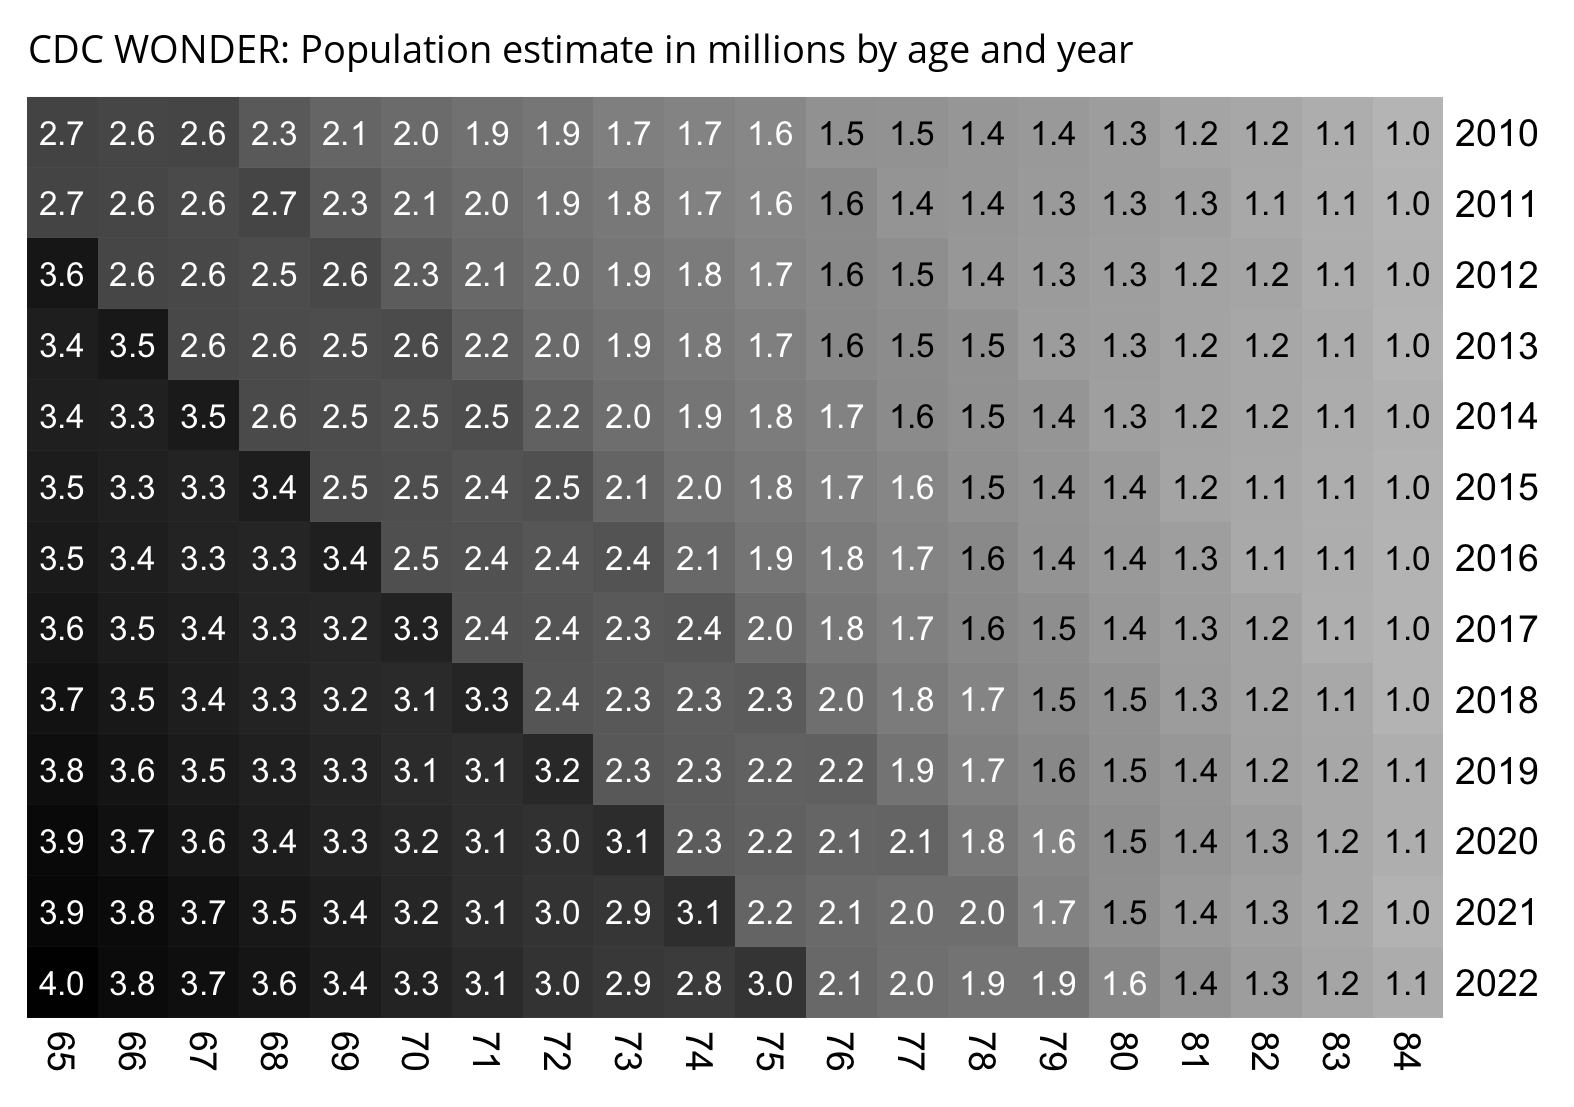
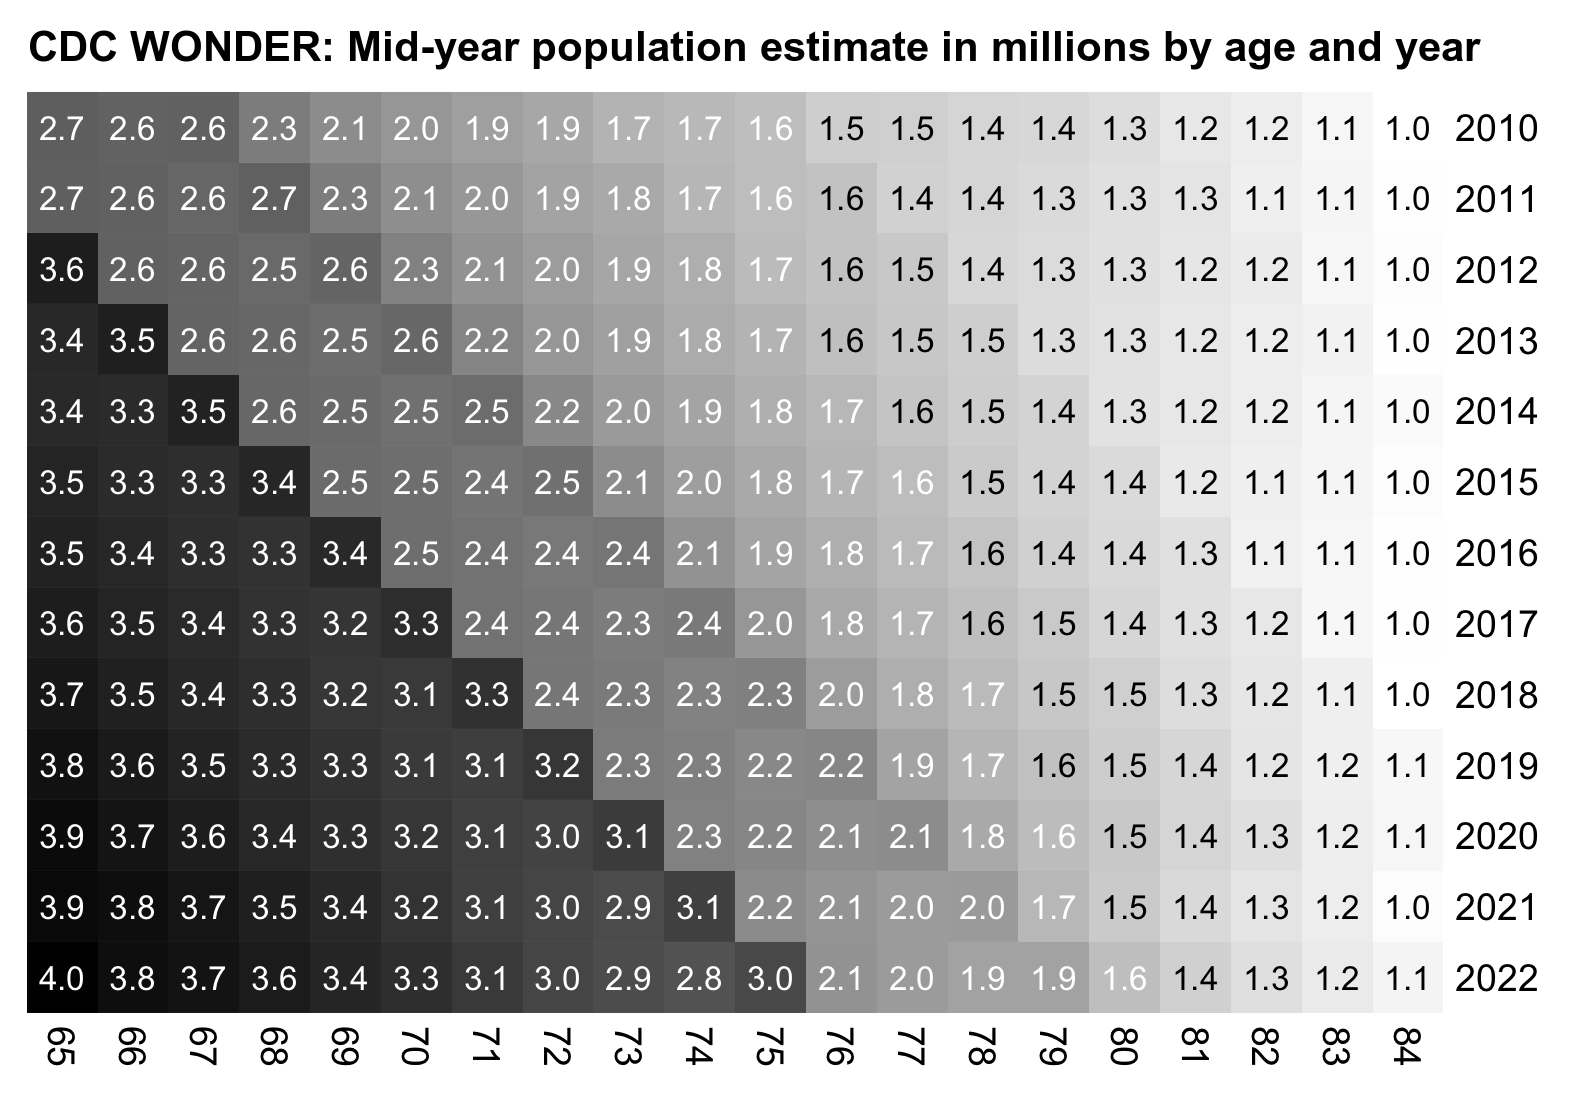
a

diff --git a/statistic.html b/statistic.html
@@ -1344,43 +1344,16 @@ system(paste0(&quot;magick 1.png -resize 25% 1.png;mar=30;w=`identify -format %w
  2021 169929 16206075 1048.6 1000.3   48.2   9.5
  2022 176784 17520545 1009.0  978.5   30.5   6.0
  2023 183053 17520545 1044.8  956.6   88.2  17.4</pre>
-<p>In the plot below I used <code>tempdisagg::td</code> to interpolate yearly population sizes to monthly so that averages within years were preserved. I got the population size for 2023 by doing a linear regression for the trend in population size in 2015-2022. The population size falls far below the trend in 2021, but the next year it gets corrected again so that it roughly falls back on the prepandemic trend:</p>
-<div class="width6">
-<img src="i/debunk-dowd-5.png">
-</div>
-<p>The plot above also shows that the number of cancer deaths in 2021 roughly fell on the past trend, but the reason why the CMR in 2021 was far above the previous trend was mainly because the population size was below the trend in 2021.</p>
-<p>At CDC WONDER ages 75-84 have about 97,000 deaths with underlying cause of death COVID in 2020, about 99,000 in 2021, and about 51,000 in 2022. But the population decreases by about 245,000 from 2020 to 2021, even though in earlier years it increased by about 500,000 per year. So the population size in 2021 is about 750,000 people below the trend, which is much higher than the number of COVID deaths in 2020 and 2021 combined. So in the scenario where there would be some kind of a glitch in the population estimates used by WONDER and the population size did not actually decrease that much below the trend 2022, then the excess CMR in 2022 might actually be lower.</p>
-<p>At first I thought the decrease in population size in 2021 may have been because of changes to the methodology for estimating population size that were introduced because of COVID. But then I noticed that the United States had a dip in births in 1945, and people born in 1945 were first included in the 75-84 age group in 2020, but there was a peak in births in 1947, and 2022 was the first year when people born in 1947 started to get included in the 75-84 age group. There were almost a million more births in 1947 than 1945. So in this plot the temporary dip in births in 1945 matches the temporary dip in population size in 2021 in the plot above: [<a href="https://www.calculatedriskblog.com/2010/04/us-births-per-year.html">https://www.calculatedriskblog.com/2010/04/us-births-per-year.html</a>]</p>
+<p>There was an unusually low number of deaths in 1944 and 1945, but the earliest wave of baby boomers was born around mid-1946 so there was a huge increase in the number of births in 1946 and 1947: [<a href="https://www.calculatedriskblog.com/2010/04/us-births-per-year.html">https://www.calculatedriskblog.com/2010/04/us-births-per-year.html</a>]</p>
 <div class="width6">
 <img src="i/debunk-dowd-6.jpg">
 </div>
-<p>This also shows how the wave of people born in 1947 reaches the 75-84 age group in 2022:</p>
+<p>The next plot also shows how 2022 was the first year when the mid-year population estimates included a large number of people born after mid-1946. I used the population sizes returned by CDC WONDER, where the population size of ages 75-84 fell between 2020 and 2021 due to the switch to the 2020-based population estimates, even though it's not easy to see from this plot:</p>
 <div class="width6">
 <img src="i/debunk-dowd-7.png">
 </div>
-<p>However I'm not sure if the dip in births in 1945 is enough to explain the decrease in population size from 2020 to 2021.</p>
-<p>CDC WONDER uses the yearly population estimates produced by the US Census Bureau, which represent the population on July 1st of each year, so there probably weren't that many COVID deaths subtracted in the population estimates for 2020 since there weren't yet that many people people who had died of COVID on July 1st 2020. But in any case, the reason why Dowd's paper had such a big increase in cancer CMR from 2020 to 2021 might partially be if by 2021 more people who died because of COVID had been subtracted from the mid-year population estimate than in 2020. So then in the scenario where there's not that many people who would've died of cancer in 2021 if they hadn't died of COVID before, the COVID deaths in 2020-2021 might have artificially increased the cancer CMR in 2021 if they reduced the actual population size but it was not sufficiently accounted for in the mid-year population estimates for 2020.</p>
-<p>A methodology article by the US Census Bureau says: <span class="quote">&quot;In general, the birth and death data we receive from NCHS have a two-year lag. This means that the most recent final data we have on births and deaths by geographic and demographic detail for each vintage of estimates refer to the calendar year two years prior to the vintage year. For example, the most current full-detail birth and death data used in Vintage 2023 were from calendar year 2021. Additionally, for Vintage 2023 we utilized the available NCHS provisional data to account for recent trends and COVID-19 impacts on natality and mortality, which varied in recency by component.&quot;</span> [<a href="https://www2.census.gov/programs-surveys/popest/technical-documentation/methodology/2020-2023/methods-statement-v2023.pdf">https://www2.census.gov/programs-surveys/popest/technical-documentation/methodology/2020-2023/methods-statement-v2023.pdf</a>] However maybe the two-year lag didn't apply to COVID deaths or the Census Bureau used some method to account for COVID deaths with a shorter delay.</p>
-<p>The US Census Bureau publishes new population estimates annually so that the past population estimates get revised in new releases. For example the vintage 2020 population estimate for the year 2020 was much higher than the vintage 2021 and 2022 estimates for the year 2020. But CDC WONDER uses the vintage 2020 population estimate for the year 2020, vintage 2021 estimate for the year 2021, and vintage 2022 estimate for the year 2022:</p>
-<pre>&gt; vintage2022=read.csv(&quot;https://www2.census.gov/programs-surveys/popest/datasets/2020-2022/national/asrh/nc-est2022-agesex-res.csv&quot;)
-&gt; sum(vintage2022$POPESTIMATE2022[vintage2022$SEX==0&amp;vintage2022$AGE%in%75:84]) # vintage 2022 estimate for 2022 (same as WONDER)
-[1] 17520545
-&gt; sum(vintage2022$POPESTIMATE2021[vintage2022$SEX==0&amp;vintage2022$AGE%in%75:84]) # vintage 2022 estimate for 2021 (different from WONDER)
-[1] 16339316
-&gt; vintage2021=read.csv(&quot;https://www2.census.gov/programs-surveys/popest/datasets/2020-2021/national/asrh/nc-est2021-agesex-res.csv&quot;)
-&gt; sum(vintage2021$POPESTIMATE2021[vintage2021$SEX==0&amp;vintage2021$AGE%in%75:84]) # vintage 2021 estimate for 2021 (same as WONDER)
-[1] 16206075</pre>
-<p>In the plot below when I used the vintage 2022 population estimates for the years 2020 and 2021, 2020 actually got a higher CMR than 2021 for UCD neoplasms in ages 75-84:</p>
-<div class="width6">
-<img src="i/debunk-dowd-8.png">
-</div>
-<p>The population estimates for 2020 may have been revised downwards in the vintage 2021 release because of COVID deaths or because of changes to the methodology of accounting for COVID. The methodology article of the vintage 2021 release said: <span class="quote">&quot;To account for changes to natality resulting from the COVID-19 pandemic, we also incorporated monthly total births for the nation in the first quarter of 2021 and used recent trends to project births for the second quarter of the year. To reflect the impact of COVID-19 on deaths, we had data for the first half of 2021 that includes recent trends and patterns of excess mortality from the pandemic. Essentially, the NCHS data are used in conjunction with the data received from the FSCPE to create short-term projections that approximate the final NCHS data by characteristics.&quot;</span> [<a href="https://www2.census.gov/programs-surveys/popest/technical-documentation/methodology/2020-2021/methods-statement-v2021.pdf">https://www2.census.gov/programs-surveys/popest/technical-documentation/methodology/2020-2021/methods-statement-v2021.pdf</a>] However the vintage 2020 methodology article didn't mention if they took COVID deaths into account, but only that they accounted for changes to migration patterns because of COVID. [<a href="https://www2.census.gov/programs-surveys/popest/technical-documentation/methodology/2010-2020/methods-statement-v2020-final.pdf">https://www2.census.gov/programs-surveys/popest/technical-documentation/methodology/2010-2020/methods-statement-v2020-final.pdf</a>]</p>
-<p>An annoying feature at CDC WONDER is that it doesn't return population sizes for monthly or weekly data but only yearly data. However the US Census Bureau has actually produced monthly population estimates by single year of age, even though they seem to be interpolated from quarterly population estimates. [<a href="https://www2.census.gov/programs-surveys/popest/datasets/2020-2022/national/asrh/">https://www2.census.gov/programs-surveys/popest/datasets/2020-2022/national/asrh/</a>, <a href="https://www2.census.gov/programs-surveys/popest/datasets/2010-2020/national/asrh/">https://www2.census.gov/programs-surveys/popest/datasets/2010-2020/national/asrh/</a>] There's one set of estimates for 2010-2020 which are based on the 2010 census, and there's another set of estimates for 2020 onwards which are based on the 2020 census. This combines the monthly resident population estimates from both sets into a single file:</p>
-<pre>u=https://www2.census.gov/programs-surveys/popest/datasets
-parallel -j20 curl -s ::: $u/2020-2022/national/asrh/nc-est2022-alldata-r-file0{1..8}.csv|awk &#39;NR==1||!/UNIVERSE/&#39;&gt;new
-parallel -j20 curl -s ::: $u/2010-2020/national/asrh/NC-EST2020-ALLDATA-R-File{01..24}.csv|awk &#39;NR==1||!/UNIVERSE/&#39; &gt;old
-sed 1d old|cut -d, -f2-5|awk -F, &#39;$2!=2021&amp;&amp;($2!=2020||$1&lt;4)&#39;|cat - &lt;(sed 1d new|cut -d, -f2-5)|awk -F, &#39;$3!=999&amp;&amp;$1!~/4\.[12]/{print$3 FS$2 FS$1 FS$4}&#39;|sort -t, -nk1,1 -nk2,2 -nk3,3|sed s/X//|(echo age,year,month,pop;cat)&gt;usmonthpop.csv</pre>
-<p>In the plot below I used the monthly resident population estimates generated by the code above, which are somewhat different from the yearly population estimates that are used by CDC WONDER. If the plot below would be missing the blue line for the baseline and the green line for the population size so that it would only include the black line for the raw number of deaths and the gray baseline, it would seem like there was a sudden unexplained inflection point in the number of deaths in mid-2021. However actually the inflection point was because in mid-2021 the population size of ages 75-84 started to increase dramatically, because the baby boomers who were born in the second half of 1946 started to turn 75. Births per year peaked in 1947, but there was already a big increase in births in the second half of 1946. So therefore the gray baseline which is based on the linear trend in raw deaths in 2010-2019 is far too low in 2021-2023. But the blue baseline is more accurate, and relative to the blue baseline there were actually negative excess cancer deaths in 2021-2023:</p>
+<p>An annoying feature at CDC WONDER is that it doesn't return population sizes for monthly or weekly data but only yearly data. However the US Census Bureau has actually produced monthly population estimates by single year of age, even though they seem to be interpolated from quarterly population estimates. [<a href="https://www2.census.gov/programs-surveys/popest/datasets/2020-2022/national/asrh/">https://www2.census.gov/programs-surveys/popest/datasets/2020-2022/national/asrh/</a>, <a href="https://www2.census.gov/programs-surveys/popest/datasets/2010-2020/national/asrh/">https://www2.census.gov/programs-surveys/popest/datasets/2010-2020/national/asrh/</a>] In the next plot in order to get rid of a jump in population estimates after the switch from the 2010-based to 2020-based population estimates, I used the same method as earlier to multiply the population estimates for 2010-2020 with a linear slope so that they matched the 2020-based estimates in 2020. [<a href=ethical.html#Files_for_US_population_estimates_by_single_year_of_age_up_to_ages_100>ethical.html#Files_for_US_population_estimates_by_single_year_of_age_up_to_ages_100</a>]</p>
+<p>In the plot I calculated the expected number of deaths by first doing a linear regression for the CMR of each age, and then I multiplied the population size of the age by the projected trend in CMR to get the expected deaths for the age, and I added together all ages. The plot shows that there was a sharp turning point in the expected number of deaths around mid-2021 when the people born in mid-1946 started to turn 75:</p>
 <div class="width6">
 <img src="i/debunk-dowd-9.png">
 </div>
